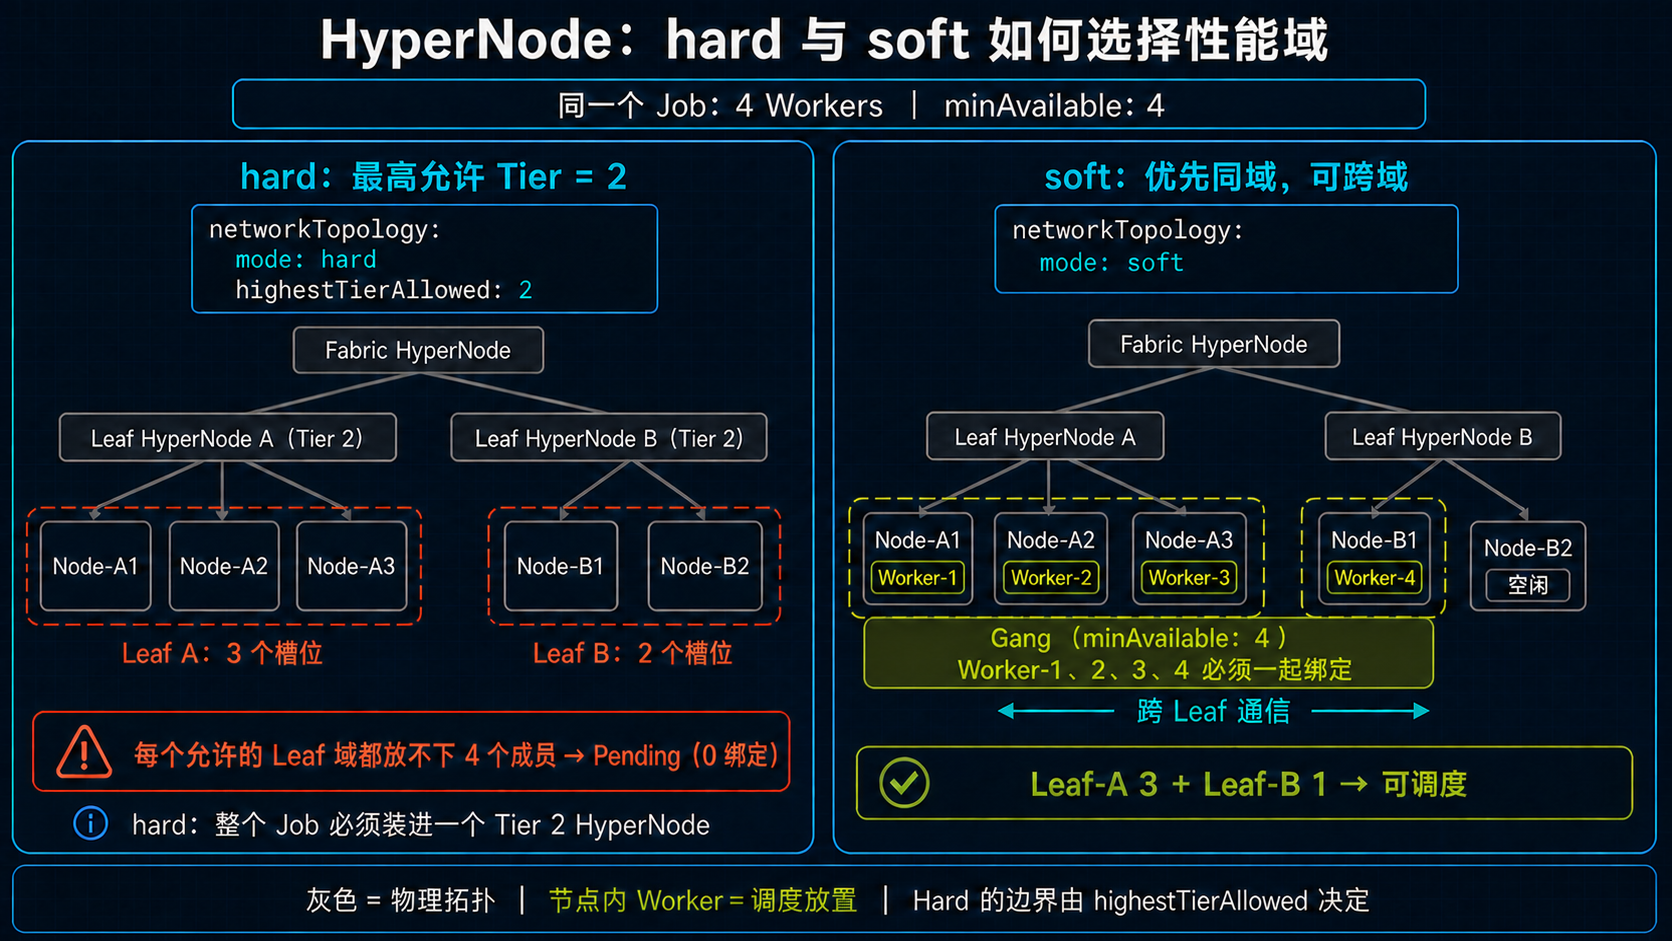
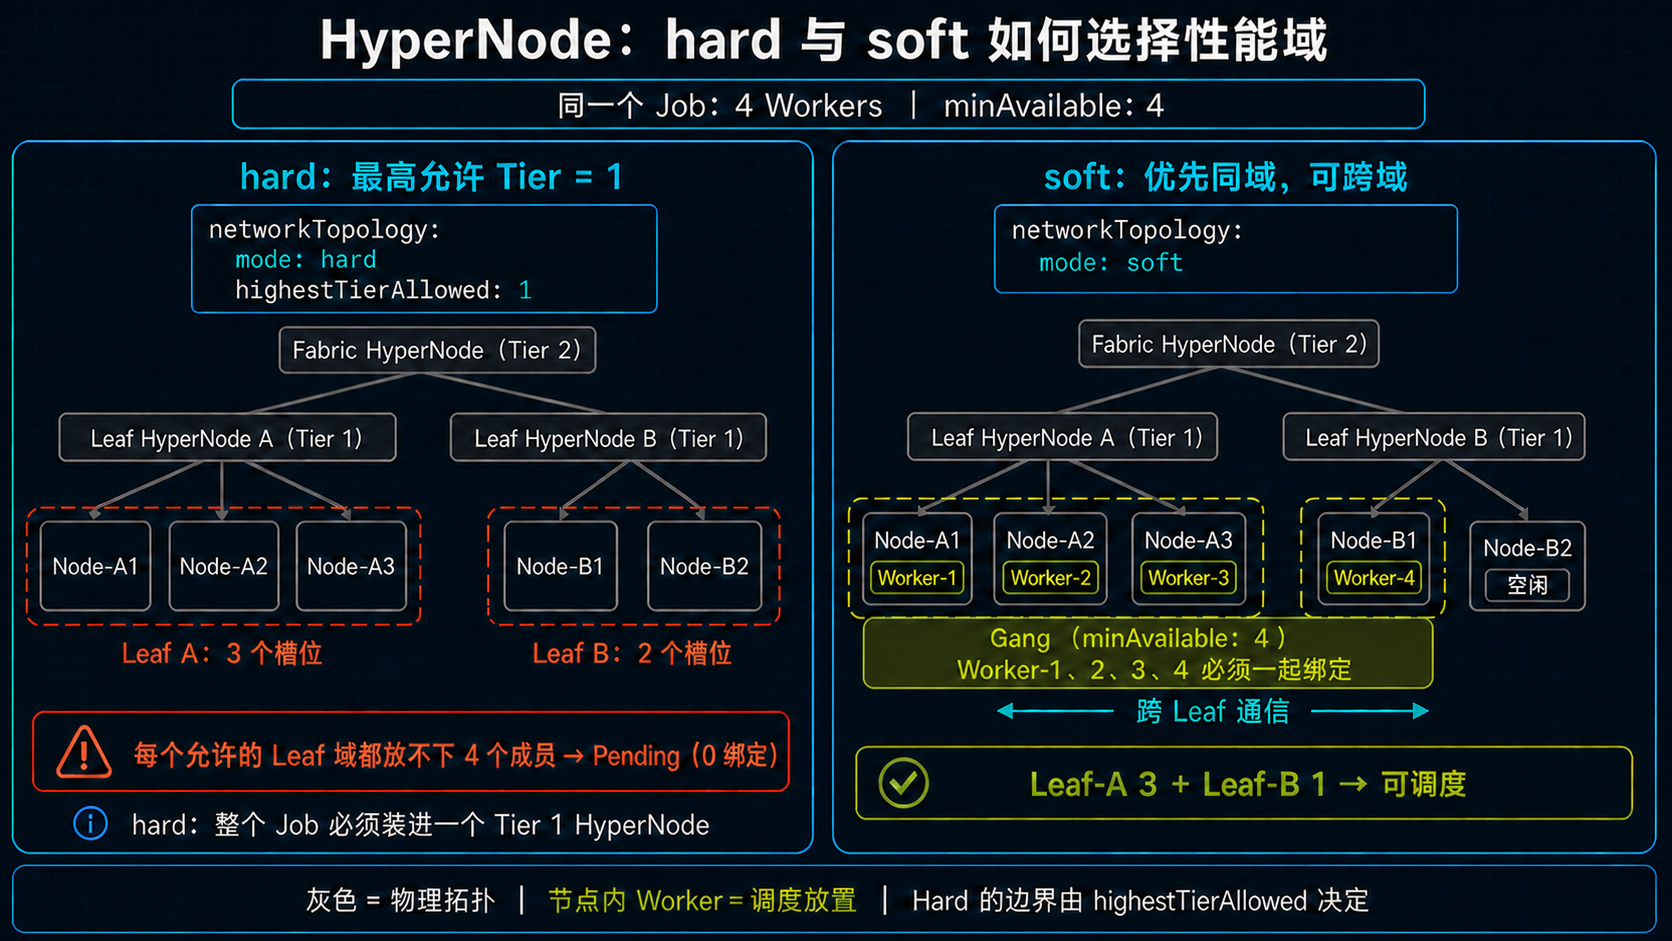
add HyperNode creation example

diff --git a/一文搞懂 Volcano：Kubernetes 为什么还需要一个 AI 调度器？.md b/一文搞懂 Volcano：Kubernetes 为什么还需要一个 AI 调度器？.md
@@ -360,7 +360,7 @@ Fabric
 - `hard`：整个 Job 或子组必须放进同一个符合最高 Tier 限制的 HyperNode 性能域，找不到能容纳它的域就继续 Pending；
 - `soft`：尽量把整个 Job 放进同一个更近的拓扑域，实在放不下时允许跨域。
 
-不要把 `hard` 简化理解成“永远不能跨 Leaf”。边界由 `highestTierAllowed` 决定：图 5 的示例把 Leaf HyperNode 定为 Tier 2，并设置 `highestTierAllowed: 2`，所以整个 Job 只能装进 Leaf-A 或 Leaf-B 其中之一；两个 Leaf 分别只有 3 和 2 个槽位，因而 Pending。若允许到更高层的 Fabric HyperNode，Hard 仍要求整个 Job 位于同一个合格 HyperNode，但可能允许它分布在该父域下的多个 Leaf。
+不要把 `hard` 简化理解成“永远不能跨 Leaf”。边界由 `highestTierAllowed` 决定：图 5 的示例把 Leaf HyperNode 定为 Tier 1，并设置 `highestTierAllowed: 1`，所以整个 Job 只能装进 Leaf-A 或 Leaf-B 其中之一；两个 Leaf 分别只有 3 和 2 个槽位，因而 Pending。若允许到更高层的 Fabric HyperNode，Hard 仍要求整个 Job 位于同一个合格 HyperNode，但可能允许它分布在该父域下的多个 Leaf。
 
 一般来说：
 
@@ -378,7 +378,88 @@ HyperNode 可以手工创建，也可以通过节点标签或 InfiniBand UFM 自
 
 ![HyperNode hard 与 soft 拓扑放置差异](assets/volcano/04-hypernode-hard-soft.png)
 
-*图 5：灰色线表示简化的物理拓扑；Node 卡片内的 Worker 标签表示实际调度放置。左侧 Hard 示例将 `highestTierAllowed` 设为 2，因此每个 Tier 2 Leaf 都必须单独容纳 4 个成员，资源不足时整组 Pending。右侧 Soft 先偏好 Leaf-A，放不下时按 `Leaf-A 3 + Leaf-B 1` 跨域；它放松的是拓扑偏好，`minAvailable: 4` 的 Gang 条件仍要求 4 个成员一起完成绑定。*
+*图 5：灰色线表示简化的物理拓扑；Node 卡片内的 Worker 标签表示实际调度放置。左侧 Hard 示例将 `highestTierAllowed` 设为 1，因此每个 Tier 1 Leaf 都必须单独容纳 4 个成员，资源不足时整组 Pending。右侧 Soft 先偏好 Leaf-A，放不下时按 `Leaf-A 3 + Leaf-B 1` 跨域；它放松的是拓扑偏好，`minAvailable: 4` 的 Gang 条件仍要求 4 个成员一起完成绑定。*
+
+### 8.1 手工创建 HyperNode：两节点最小示例
+
+HyperNode 是**集群级 CRD**，不属于某个 namespace。手工创建时先确认 CRD 已安装，并把成员名称与 Kubernetes Node 名称逐字对应：
+
+```bash
+kubectl get crd hypernodes.topology.volcano.sh
+kubectl get nodes -o wide
+```
+
+下面的 [`hypernode-two-node-lab.yaml`](examples/volcano/hypernode-two-node-lab.yaml) 对应本文的两台实验节点。它把每台节点建模为一个 Tier 1 Leaf，并以一个 Tier 2 父 HyperNode 把它们连起来：
+
+```yaml
+apiVersion: topology.volcano.sh/v1alpha1
+kind: HyperNode
+metadata:
+  name: lab-leaf-a
+spec:
+  tier: 1
+  members:
+    - type: Node
+      selector:
+        exactMatch:
+          name: "10-60-50-9"
+---
+apiVersion: topology.volcano.sh/v1alpha1
+kind: HyperNode
+metadata:
+  name: lab-leaf-b
+spec:
+  tier: 1
+  members:
+    - type: Node
+      selector:
+        exactMatch:
+          name: "10-60-8-241"
+---
+apiVersion: topology.volcano.sh/v1alpha1
+kind: HyperNode
+metadata:
+  name: lab-fabric
+spec:
+  tier: 2
+  members:
+    - type: HyperNode
+      selector:
+        exactMatch:
+          name: "lab-leaf-a"
+    - type: HyperNode
+      selector:
+        exactMatch:
+          name: "lab-leaf-b"
+```
+
+先做 server-side dry-run，再正式创建并检查层级：
+
+```bash
+kubectl apply --server-side --dry-run=server -f hypernode-two-node-lab.yaml
+kubectl apply -f hypernode-two-node-lab.yaml
+kubectl get hypernodes.topology.volcano.sh
+kubectl get hypernodes.topology.volcano.sh lab-fabric -o yaml
+```
+
+> 这份 YAML 是**调度语义实验模型**，不等于已经发现了两台云主机真实的交换机、Rail 或带宽关系。生产环境应根据交换机、UFM 或可信节点标签建立 HyperNode；不要仅因节点数量方便就虚构网络性能域。
+
+创建 CR 只是把拓扑数据写进 Kubernetes。要让 Job 真正使用它，`volcano-scheduler-configmap` 还必须在现有插件列表中加入 `network-topology-aware`，并重启/升级 Scheduler；仅创建 HyperNode 而没有这个插件，调度器不会按拓扑约束放置 Pod。
+
+基于上面的两节点模型，下面的 Job 约束会要求整组只放在一个 Tier 1 Leaf。若 `minAvailable: 2` 且每个 Leaf 只有一台节点，Hard 将保持 Pending；改为 Soft 后，调度器才可以按两台节点 `1 + 1` 跨 Leaf 放置：
+
+```yaml
+# 放进 VolcanoJob 的 spec；不是独立 Kubernetes 对象
+networkTopology:
+  mode: hard
+  highestTierAllowed: 1
+```
+
+实验结束只删除本次创建的三个对象，不能删除 HyperNode CRD：
+
+```bash
+kubectl delete -f hypernode-two-node-lab.yaml
+```
 
 ## 9. Volcano 与 GPU Operator、Device Plugin 是什么关系
 
